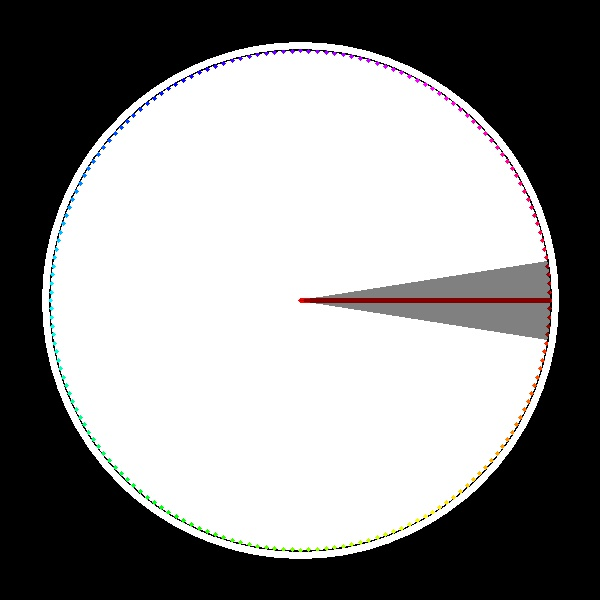
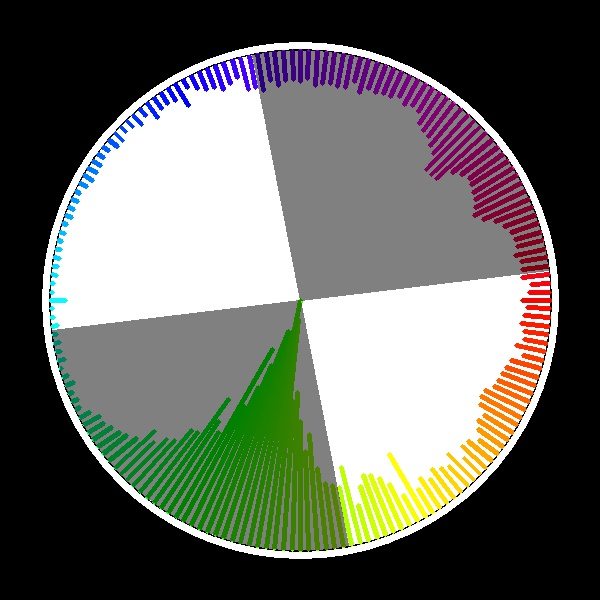
bug

diff --git a/color_harmonization.py b/color_harmonization.py
@@ -27,15 +27,15 @@ H_cycle = util.H_cycle
 
 class HueSector:
 
-    def __init__(self, centor, width):
+    def __init__(self, center, width):
         # In Degree [0,180)
-        self.centor = centor
+        self.center = center
         self.width  = width
-        self.border = [(self.centor - self.width/2), (self.centor + self.width/2)]
+        self.border = [(self.center - self.width/2), (self.center + self.width/2)]
 
     def is_in_sector(self, H):
         # True/False matrix if hue resides in the sector
-        return deg_distance(H, self.centor) < self.width/2
+        return deg_distance(H, self.center) < self.width/2
 
     def distance_to_border(self, H):        
         H_1 = deg_distance(H, self.border[0])
@@ -44,8 +44,8 @@ class HueSector:
         H_distance[self.is_in_sector(H)] = 0
         return H_distance
 
-    def distance_to_centor(self, H):
-        H_distance = deg_distance(H, self.centor)
+    def distance_to_center(self, H):
+        H_distance = deg_distance(H, self.center)
         H_distance[self.is_in_sector(H)] = 0
         return H_distance
 
@@ -56,9 +56,9 @@ class HarmonicScheme:
         self.alpha = alpha
         self.sectors = []
         for t in HueTemplates[m]:
-            centor = t[0] * H_cycle + alpha
+            center = t[0] * H_cycle + alpha
             width  = t[1] * H_cycle
-            sector = HueSector(centor, width)
+            sector = HueSector(center, width)
             self.sectors.append( sector )
 
     def harmony_score(self, X):
@@ -75,7 +75,10 @@ class HarmonicScheme:
         H_dis = H_dis.min(axis=0)
         return H_dis
 
-    def hue_shifted(self, H):
+    def hue_shifted(self, X):
+        Y = X.copy()
+        H = X[:, :, 0].astype(np.int32)
+        
         H_d2b = [ sector.distance_to_border(H) for sector in self.sectors ]
         H_d2b = np.asarray(H_d2b)
         
@@ -86,25 +89,30 @@ class HarmonicScheme:
         H_wid = np.zeros((H.shape))
         H_d2c = np.zeros((H.shape))
         for i in range(len(self.sectors)):
-            s = self.sectors[i]
+            sector = self.sectors[i]
             mask = (H_cls == i)
-            H_cen[H_sec == i] = s.c
-            H_wid[H_sec == i] = s.w
+            H_ctr[mask] = sector.center
+            H_wid[mask] = sector.width
+            print(sector.center, sector.width)
+            #print(sector.distance_to_center(H))
+            cv2.imwrite(str(i)+"tmp.jpg", sector.distance_to_center(H))
+            cv2.imwrite(str(i)+"mask.jpg", mask.astype(np.int32)*255)
+            #print(mask)
+            H_d2c = sector.distance_to_center(H) * mask
+            cv2.imwrite(str(i)+"d2c.jpg", H_d2c)
+            
+        #print(H_d2c)
+        H_sgm = H_wid / 2
 
-            for y in range(H_sec.shape[0]):
-                for x in range(H_sec.shape[1]):
-                    #print(H_sec[y,x])
-                    if H_sec[y,x] == i:
-                        H_d2c[y,x] = s.centor_distance(H[y,x])
-        H_sig = H_wid / 2
-
-        H_gau = gaussian(H_d2c, 0, H_sig)
+        H_gau = util.gaussian(H_d2c, 0, H_sgm)
+        #print(H_gau)
         #print(H_d2c)
         #print(H_sig)
         #print(H_gau.dtype)
-        H_shi = H_cen + np.multiply(H_wid / 2, 1 - H_gau)
-        H_shi = np.remainder(H_shi, H_cycle)
-        return H_shi
+        H_shf = H_ctr + np.multiply(H_wid / 2, 1 - H_gau)
+        H_shf = np.remainder(H_shf, H_cycle)
+        Y[:,:,0] = H_shf
+        return Y
 
 def B(X):    
     F_matrix = np.zeros((M, A))

diff --git a/main.py b/main.py
@@ -18,27 +18,22 @@ width  = color_image.shape[1]
 
 HSV_image = cv2.cvtColor(color_image, cv2.COLOR_BGR2HSV)
 
-canvas = util.draw_hue_histogram(HSV_image)
-
 best_harmomic_scheme = color_harmonization.B(HSV_image)
 print("Template Type  : ", best_harmomic_scheme.m)
 print("Template Alpha : ", best_harmomic_scheme.alpha)
 
+canvas = util.draw_hue_histogram(HSV_image)
 overlay = util.draw_harmonic_scheme(best_harmomic_scheme, canvas)
 cv2.addWeighted(overlay, 0.5, canvas, 1 - 0.5, 0, canvas)
 cv2.imwrite("hue_source.jpg", canvas)
 
-'''
-best_m = "T"
-best_alpha = -35
+new_HSV_image = best_harmomic_scheme.hue_shifted(HSV_image)
 
-best_template = HueTemplate(best_m, best_alpha)
-new_H = best_template.hue_shifted(H)
+canvas = util.draw_hue_histogram(new_HSV_image)
+overlay = util.draw_harmonic_scheme(best_harmomic_scheme, canvas)
+cv2.addWeighted(overlay, 0.5, canvas, 1 - 0.5, 0, canvas)
+cv2.imwrite("hue_target.jpg", canvas)
 
-HSV_image[:,:,0] = new_H
-
-result_image = cv2.cvtColor(HSV_image, cv2.COLOR_HSV2BGR)
-
+result_image = cv2.cvtColor(new_HSV_image, cv2.COLOR_HSV2BGR)
 result_image = result_image.astype('int')
 cv2.imwrite("result.jpg", result_image)
-'''

diff --git a/util.py b/util.py
@@ -59,11 +59,11 @@ def draw_hue_histogram(X):
 def draw_harmonic_scheme(harmonic_scheme, canvas):
     overlay = canvas.copy()
     for sector in harmonic_scheme.sectors:
-        centor = sector.centor
+        center = sector.center
         width  = sector.width
-        #print(centor, width)
-        start  = (centor + width/2) * (360/H_cycle)
-        end    = (centor - width/2) * (360/H_cycle)
-        #print(centor, width, start, end)
+        #print(center, width)
+        start  = (center + width/2) * (360/H_cycle)
+        end    = (center - width/2) * (360/H_cycle)
+        #print(center, width, start, end)
         cv2.ellipse(overlay, (yc, xc), (circle_r,circle_r), 0, start, end, (0,0,0), -1)
     return overlay
